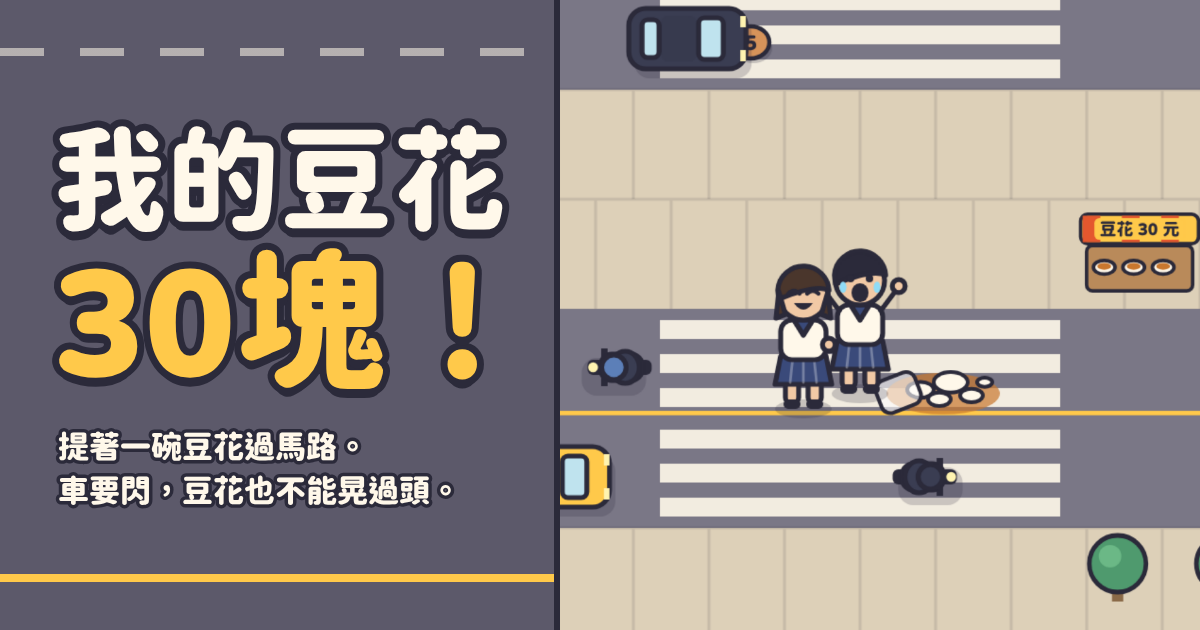
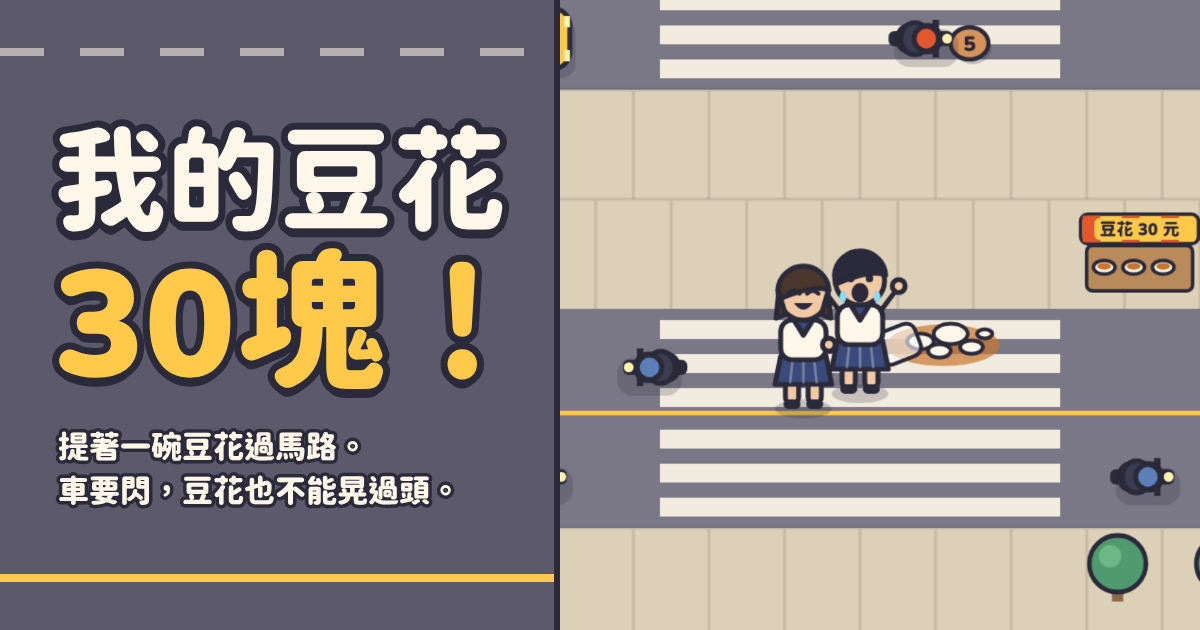
我的豆花30塊：加上「抓節奏」和路上的道具
玩起來還是缺一點樂趣：袋子的晃動只會處罰人，路上也沒有驚喜。

- 抓節奏：袋子往回盪的時候踏出去，這一步會把它帶穩。時機到了量表和袋子會變綠、
  輕輕響一聲；踩準跳「穩！」有零錢，連續踩準更多。照節奏走可以一直走不晃出來
- 道具：車道上偶爾出現綠燈（所有車停 3 秒）、骨頭（野狗 6 秒不追）、
  蓋子（擋掉下一次晃過頭）

Claude-Session: https://claude.ai/code/session_01KxDmhWxjQ4a2uP9nZWftUY

diff --git a/douhua/index.html b/douhua/index.html
@@ -87,6 +87,10 @@ body{background:var(--road);color:var(--ink);font-family:var(--body);font-weight
 .timer{height:14px;border:2.5px solid var(--ink);border-radius:999px;background:var(--paper);overflow:hidden}
 .timer i{display:block;height:100%;width:100%;background:var(--calm);transform-origin:left center}
 .timer.low i{background:var(--alert)}
+/* 現在踏出去會把袋子帶穩：量表變綠 */
+.timer.good{box-shadow:0 0 0 3px var(--ok)}
+.timer.good i{background:var(--ok)}
+.wallet .spare.lid{background:#7fc4e8}
 .icon-btn{pointer-events:auto;width:40px;height:40px;display:grid;place-items:center;border:2.5px solid var(--ink);border-radius:50%;background:var(--paper);color:var(--ink);cursor:pointer;padding:0}
 .icon-btn svg{width:20px;height:20px}
 .icon-btn:focus-visible,.btn:focus-visible{outline:3px solid var(--calm);outline-offset:3px}
@@ -131,7 +135,7 @@ body{background:var(--road);color:var(--ink);font-family:var(--body);font-weight
     <div class="top">
       <div class="left">
         <div class="count"><small>第 <span id="dayN">1</span> 天　過了</small><b id="num">0</b><small>/ <span id="goal">5</span> 條</small></div>
-        <div class="wallet" id="wallet"><span class="coin" aria-hidden="true">$</span><b id="money">$0</b><span class="spare" id="spare" hidden>朋友手上還有一碗</span></div>
+        <div class="wallet" id="wallet"><span class="coin" aria-hidden="true">$</span><b id="money">$0</b><span class="spare" id="spare" hidden>朋友手上還有一碗</span><span class="spare lid" id="lidOn" hidden>有蓋</span></div>
         <div class="pat"><span>豆花晃動</span><div class="timer" id="timer"><i id="timerFill"></i></div></div>
         <div class="pat" id="dogm" hidden><span>野狗多近</span><div class="timer dog" id="dogT"><i id="dogFill"></i></div></div>
       </div>
@@ -151,6 +155,7 @@ body{background:var(--road);color:var(--ink);font-family:var(--body);font-weight
       <li><b>左右滑</b> 橫著走一格</li>
       <li><b>往下滑</b> 退一步</li>
       <li><b>走太急</b> 豆花會晃</li>
+      <li><b>變綠再踩</b> 越走越穩</li>
       <li><b>走到家</b> 過一天</li>
       <li><b>掉光</b> 從第 1 天重來</li>
       <li><b>每撿滿 30 塊</b> 朋友多買一碗</li>
@@ -293,7 +298,7 @@ Voice.load();
 if(Voice.ok){Voice.pick();try{speechSynthesis.addEventListener('voiceschanged',()=>Voice.pick());}catch(e){}}
 
 /* ───────── 狀態 ───────── */
-let mode='title',time=0,rows=[],gen=0,pr=1,from=1,flow=0,lastStepAt=-9,dropsToday=0,stars=0,px=CX,tx=CX,inPud=false,minR=1,camR=1,stepT=0,buf=null,th=0,om=0,foot=1,streets=0,money=0,earned=0,spare=0,rescue=false,idle=0,lim=LIMIT,goalN=5,mods=[],windT=6,windWarn=false,windFx=0,winT=0,winBonus=0,eliseT=1,lastWon=false,cardDay=1,voiced=false,best=parseInt(store.get('dh.best')||'0',10)||0;
+let mode='title',time=0,rows=[],gen=0,pr=1,from=1,flow=0,lastStepAt=-9,dropsToday=0,stars=0,steady=0,cueOn=false,greenT=0,shield=0,px=CX,tx=CX,inPud=false,minR=1,camR=1,stepT=0,buf=null,th=0,om=0,foot=1,streets=0,money=0,earned=0,spare=0,rescue=false,idle=0,lim=LIMIT,goalN=5,mods=[],windT=6,windWarn=false,windFx=0,winT=0,winBonus=0,eliseT=1,lastWon=false,cardDay=1,voiced=false,best=parseInt(store.get('dh.best')||'0',10)||0;
 let cause='',lastShock='step',dropT=0,dropX=CX,dropY=0,shake=0,flash=0,fx=CX-30,fr=1;
 const pops=[],splash=[],nm={r:0,x:0,t:0},dog={on:false,r:-5,x:CX,bark:0,eat:0};
 const has=m=>mods.includes(m),DOG_GAP=2.7,dogSpeed=()=>Math.min(1.05,.56+.035*Math.min(day,12)+.008*streets)*(1-.12*U('jerky'));
@@ -310,6 +315,7 @@ function genStreet(){
       const pud=has('rain')?Math.random()<.6:(k>=2&&!lastPud&&Math.random()<.17);lastPud=pud;
       const row={t:'lane',street:k,dir,sp,edge,t0:lerp(1.3,.86,D)*busy,t1:lerp(2.8,1.75,D)*busy,pud,pudC:(Math.random()*3|0)-1,coins:[],veh:[],gap:0,first:j===0,flip:G.length===1&&j===1};
       if(Math.random()<.62){let c=pick([-1,-1,0,1,1]);if(pud&&c===row.pudC)c=c?-c:1;row.coins.push({c,v:lv>=3&&Math.random()<.08?50:Math.random()<.3?10:5,got:false});}
+      if(k>=2&&Math.random()<.12){const used=row.coins.map(q=>q.c).concat(pud?[row.pudC]:[]),free=[-1,0,1].filter(c=>!used.includes(c));if(free.length)row.items=[{c:pick(free),t:pick(has('dog')?['green','bone','lid']:['green','lid']),got:false}];}
       for(let x=-170;x<540;){const v=mkVeh(row);x+=v.len/2;v.x=dir>0?x:360-x;row.veh.push(v);x+=v.len/2+row.sp*rnd(row.t0,row.t1);}
       row.veh=row.veh.filter(v=>Math.abs(v.x-CX)>130||k>1);row.gap=row.sp*rnd(.2,row.t1);rows.push(row);}});
   rows.push({t:'walk',street:k,goal:true,home:k===goalN,veh:[]});rows.push({t:'walk',street:k,veh:[]});
@@ -358,8 +364,9 @@ function drawVeh(c,v,dir){
   c.restore();
 }
 // 一袋豆花：塑膠袋裡一個白色紙碗。a 是擺動的角度
-function drawBag(c,x,y,a,hot){
+function drawBag(c,x,y,a,hot,good){
   c.save();c.translate(x,y);c.rotate(a);c.lineJoin='round';c.lineCap='round';c.strokeStyle=INK;c.lineWidth=2;
+  if(good){c.fillStyle='rgba(90,210,125,.5)';c.beginPath();c.arc(0,26,21,0,TAU);c.fill();}
   c.beginPath();c.moveTo(0,0);c.lineTo(-7,14);c.moveTo(0,0);c.lineTo(7,14);c.stroke();
   c.fillStyle=hot?'rgba(255,210,196,.8)':'rgba(255,255,255,.62)';c.beginPath();c.moveTo(-9,13);c.quadraticCurveTo(-15,32,-9,38);c.lineTo(9,38);c.quadraticCurveTo(15,32,9,13);c.closePath();c.fill();c.stroke();
   c.fillStyle=PAPER;rrect(c,-8.5,21,17,14,3);c.fill();c.stroke();c.fillStyle=SYRUP;c.fillRect(-7,22,14,3.5);
@@ -394,7 +401,7 @@ function drawGirl(c,x,y,o){
     if(o.laugh){c.lineWidth=2.2;c.beginPath();c.moveTo(-8,-59);c.quadraticCurveTo(-5,-62,-2,-59);c.moveTo(2,-59);c.quadraticCurveTo(5,-62,8,-59);c.stroke();c.beginPath();c.moveTo(-5,-54);c.quadraticCurveTo(0,-47,5,-54);c.closePath();c.fill();}
     else{c.beginPath();c.arc(-5,-59,2,0,TAU);c.arc(5,-59,2,0,TAU);c.fill();c.beginPath();c.ellipse(0,-51.5,4.5,5.5+Math.sin(time*30)*.8,0,0,TAU);c.fill();   // 張大嘴大叫
       c.fillStyle='#8fdcf7';for(const sd of[-1,1]){c.beginPath();c.ellipse(sd*9,-55+((time*40)%8),1.8,3,0,0,TAU);c.fill();}}}
-  if(o.bag!==null)drawBag(c,19.5,-29,o.bag,Math.abs(o.bag)>lim*.72);
+  if(o.bag!==null)drawBag(c,19.5,-29,o.bag,Math.abs(o.bag)>lim*.72,o.good);
   c.restore();
 }
 function drawRowBg(c,r,row,y,L,R){
@@ -415,7 +422,20 @@ function drawRowBg(c,r,row,y,L,R){
     else if(!row.first){c.fillStyle='rgba(255,248,234,.8)';for(let x=Math.floor(L/44)*44;x<R;x+=44)c.fillRect(x,top+RH-1.5,24,3);}
     c.fillStyle='rgba(255,248,234,.9)';for(const q of[-18,0,18])c.fillRect(CX-106,y+q-5,212,10);   // 斑馬線（能橫著走的範圍）
     if(row.pud){const px=PX(row.pudC);c.fillStyle='rgba(143,220,247,.8)';c.beginPath();c.ellipse(px,y+4,24,11,0,0,TAU);c.fill();c.strokeStyle='rgba(255,255,255,.8)';c.lineWidth=1.6;c.beginPath();c.ellipse(px-4,y+2,12,4,0,.3,2.6);c.stroke();}
-    for(const q of row.coins)if(!q.got)drawCoin(c,PX(q.c),y+3+Math.sin(time*4+r)*1.5,q.v);}
+    for(const q of row.coins)if(!q.got)drawCoin(c,PX(q.c),y+3+Math.sin(time*4+r)*1.5,q.v);
+    for(const q of row.items||[])if(!q.got)drawItem(c,PX(q.c),y+2+Math.sin(time*4+r)*2,q.t);}
+}
+// 路上的道具：綠燈（所有車停 3 秒）、骨頭（野狗去啃、暫時不追）、蓋子（擋掉下一次晃過頭）
+const ITEM={green:{ch:'綠',col:'#4fb36c',n:'綠燈！車都停了'},bone:{ch:'骨',col:'#fff8ea',n:'狗跑去啃骨頭了'},lid:{ch:'蓋',col:'#7fc4e8',n:'蓋上蓋子：擋一次'}};
+function drawItem(c,x,y,t){
+  const I=ITEM[t];c.lineJoin='round';c.strokeStyle=INK;c.lineWidth=2.4;
+  c.fillStyle='rgba(43,42,58,.22)';rrect(c,x-11,y-8,24,24,7);c.fill();
+  c.fillStyle=I.col;rrect(c,x-12,y-12,24,24,7);c.fill();c.stroke();
+  c.fillStyle=INK;c.font='900 14px '+FONT;c.textAlign='center';c.textBaseline='middle';c.fillText(I.ch,x,y+.5);c.textAlign='left';c.textBaseline='alphabetic';
+}
+function pickup(t,x,y){
+  pop(x,y,ITEM[t].n,SUN,true,{life:1.2,dur:1.2});Snd.blip(660,1320,.16,'triangle',.1);Snd.blip(990,1760,.14,'triangle',.07,.1);
+  if(t==='green')greenT=3.2;else if(t==='bone'){dog.eat=6;dog.r=Math.min(dog.r,pr-DOG_GAP);}else shield=1;
 }
 // 路上的零錢：5 塊銅色、10 塊銀色、50 塊金色
 function drawCoin(c,x,y,v){
@@ -494,7 +514,7 @@ function render(){
         g.fillStyle='rgba(201,119,46,.7)';g.beginPath();g.ellipse(dropX,dropY+4,30*e,11*e,0,0,TAU);g.fill();g.fillStyle=PAPER;g.strokeStyle=INK;g.lineWidth=2;
         for(const[qx,qy,qr]of[[-12,2,7],[4,-2,9],[15,5,6],[-2,7,6],[22,-2,4]]){g.beginPath();g.ellipse(dropX+qx*e,dropY+qy,qr*e,qr*.6*e,0,0,TAU);g.fill();g.stroke();}
         g.save();g.translate(dropX-20,dropY+2);g.rotate(1.2);g.fillStyle='rgba(255,255,255,.6)';rrect(g,-9,-7,18,22,5);g.fill();g.stroke();g.restore();}
-      drawGirl(g,px,rowY(pRow)+14,{back:!drop,hair:'pony',hairCol:'#2b2a3a',pack:'#5c7fb8',step:walk,foot,bag:drop?null:th});}
+      drawGirl(g,px,rowY(pRow)+14,{back:!drop,hair:'pony',hairCol:'#2b2a3a',pack:'#5c7fb8',step:walk,foot,bag:drop?null:th,good:cueOn&&!drop});}
     if(dog.on&&Math.round(dog.r)===r)drawDog(g,dog.x,rowY(dog.r)+16);
     // 朋友：貼在左後方一起走，手上提著備用的那幾碗
     if(Math.round(fr)===r)drawGirl(g,fx,rowY(fr)+22,{back:!drop,hair:'bob',hairCol:'#4a362c',pack:'#e4572e',step:walk,foot:-foot,bag:spare?Math.sin(time*2.2)*.07:null,laugh:drop&&dropT>.5});
@@ -506,13 +526,15 @@ function render(){
   g.globalAlpha=1;g.textBaseline='alphabetic';g.textAlign='left';
   g.setTransform(1,0,0,1,0,0);
   if(flash>0){g.fillStyle=PAPER;g.globalAlpha=flash*.6;g.fillRect(0,0,W,H);g.globalAlpha=1;}
+  // 綠燈中：整個畫面泛綠
+  if(greenT>0){g.fillStyle='rgba(90,210,125,'+(.1+.05*Math.sin(time*9)+(greenT<.8?.08*Math.sin(time*30):0)).toFixed(3)+')';g.fillRect(0,0,W,H);}
   // 野狗快追上了：畫面邊緣一陣一陣發紅
   if(dog.on&&mode==='play'){const gap=pr-dog.r;if(gap<1.5){const a=(1-gap/1.5)*(.3+.2*Math.sin(time*12)),gr=g.createRadialGradient(W/2,H/2,Math.min(W,H)*.35,W/2,H/2,Math.max(W,H)*.72);gr.addColorStop(0,'rgba(228,87,46,0)');gr.addColorStop(1,'rgba(228,87,46,'+a.toFixed(3)+')');g.fillStyle=gr;g.fillRect(0,0,W,H);}}
 }
 
 /* ───────── HUD 與流程 ───────── */
 const el={hud:$('hud'),num:$('num'),timer:$('timer'),fill:$('timerFill'),hint:$('hint'),title:$('title'),over:$('over'),best:$('best'),mute:$('mute')};
-let lastHint='',lastNum=-1,lastFill=-1,lastMoney=-1,lastSpare=-1,lastDog=-1,paused=false;
+let lastHint='',lastNum=-1,lastFill=-1,lastMoney=-1,lastSpare=-1,lastDog=-1,lastCue=null,lastShield=-1,paused=false;
 function setHint(t){if(t!==lastHint){lastHint=t;el.hint.textContent=t;}}
 function muteIcon(){el.mute.innerHTML=Snd.on
   ?'<svg viewBox="0 0 24 24" fill="none" stroke="currentColor" stroke-width="2.4" stroke-linecap="round" stroke-linejoin="round"><path d="M4 9.5v5h3.5L12 18.5v-13L7.5 9.5z" fill="currentColor"/><path d="M15.5 9a4.2 4.2 0 0 1 0 6M18 6.5a8 8 0 0 1 0 11"/></svg>'
@@ -521,8 +543,8 @@ function muteIcon(){el.mute.innerHTML=Snd.on
 // 標題畫面：今天第幾天、今天的狀況、存款
 function showBest(){$('dayTag').textContent=`第 ${day} 天　${dayLabel(day)}`;el.best.textContent=(day>1?`存款 $${bank}　`:'')+(best>0?`最遠通過 ${best} 天　★ ${starSum()}`:'');$('restart').hidden=day<=1;}
 function pop(x,y,text,col,big,o){pops.push(Object.assign({x,y,text,col,life:big?1:.7,dur:big?1:.7,big},o));}
-function reset(){mods=modsFor(day);goalN=needOf(day);lim=LIMIT*(1+.09*U('lid'));windT=rnd(4,7);windWarn=false;windFx=0;winT=0;eliseT=1;rows=[];gen=0;rows.push({t:'walk',veh:[]},{t:'walk',veh:[]});need(2);pr=from=1;flow=0;lastStepAt=-9;dropsToday=0;px=tx=CX;inPud=false;minR=1;camR=1;stepT=0;buf=null;th=om=0;streets=0;money=earned=0;spare=1+U('pal');rescue=false;idle=0;nm.t=0;fx=CX-30;fr=1;cause='';lastShock='step';pops.length=splash.length=0;shake=flash=0;dog.on=has('dog');dog.r=pr-DOG_GAP;dog.x=CX;dog.bark=0;dog.eat=1.5;}
-function start(){Snd.init();Voice.unlock();Snd.blip(520,780,.14,'triangle',.1);paused=false;$('pause').hidden=true;reset();mode='play';lastNum=lastFill=lastMoney=lastSpare=lastDog=-1;el.title.hidden=true;el.over.hidden=true;el.hud.hidden=false;
+function reset(){mods=modsFor(day);goalN=needOf(day);lim=LIMIT*(1+.09*U('lid'));windT=rnd(4,7);windWarn=false;windFx=0;winT=0;eliseT=1;rows=[];gen=0;rows.push({t:'walk',veh:[]},{t:'walk',veh:[]});need(2);pr=from=1;flow=0;lastStepAt=-9;dropsToday=0;steady=0;cueOn=false;greenT=0;shield=0;px=tx=CX;inPud=false;minR=1;camR=1;stepT=0;buf=null;th=om=0;streets=0;money=earned=0;spare=1+U('pal');rescue=false;idle=0;nm.t=0;fx=CX-30;fr=1;cause='';lastShock='step';pops.length=splash.length=0;shake=flash=0;dog.on=has('dog');dog.r=pr-DOG_GAP;dog.x=CX;dog.bark=0;dog.eat=1.5;}
+function start(){Snd.init();Voice.unlock();Snd.blip(520,780,.14,'triangle',.1);paused=false;$('pause').hidden=true;reset();mode='play';lastNum=lastFill=lastMoney=lastSpare=lastDog=lastShield=-1;lastCue=null;el.title.hidden=true;el.over.hidden=true;el.hud.hidden=false;
   $('dayN').textContent=day;$('goal').textContent=goalN;$('dogm').hidden=!dog.on;
   pop(CX,228,`第 ${day} 天`,SUN,true,{huge:true,life:1.7,dur:1.7});pop(CX,272,mods.length?'今天：'+mods.map(m=>MODN[m]).join('、'):'放學，提豆花回家',PAPER,true,{life:1.7,dur:1.7});}
 function shock(j,why){om+=(Math.random()<.5?-1:1)*j;lastShock=why;}
@@ -536,7 +558,11 @@ function move(dr){
   if(rows[pr].t==='lane'){nm.r=pr;nm.x=px;nm.t=NEAR_T;}
   // 連過：一步接一步（間隔不到 0.9 秒）連續走過兩線以上，每多一線多拿零錢。停下來等或往後退就歸零
   if(dr>0){if(time-lastStepAt>=.9)flow=0;else if(rows[pr].t==='lane'&&++flow>=2){const n=Math.min(flow,5);gain(n,px,rowY(pr)-58,`連過 ${flow} 線 +${n}`);}lastStepAt=time;}else flow=0;
-  from=pr;pr=nr;stepT=STEP_T;foot=-foot;om+=dr*STEP_J;lastShock='step';idle=0;inPud=false;need(pr);Snd.blip(260,330,.05,'sine',.07);
+  from=pr;pr=nr;stepT=STEP_T;foot=-foot;lastShock='step';idle=0;inPud=false;need(pr);
+  // 抓節奏：袋子正往回盪的時候踏出去，這一步會把它帶穩（那時量表和袋子會變綠）。踩準有零錢，連續踩準更多；踩在最糟的時機就斷掉
+  {const a0=Math.hypot(th,om/W0);om+=dr*STEP_J;const a1=Math.hypot(th,om/W0);
+    if(dr>0&&a0>.25&&a1<a0-.12){steady++;th*=.6;om*=.6;const n=steady>=4?2:1;money+=n;earned+=n;pop(px+26,rowY(from)-76,steady>1?`穩！×${steady}`:'穩！','#8fe0a8');const f=520+Math.min(steady,8)*70;Snd.blip(f,f*1.5,.08,'triangle',.09);}
+    else{if(dr>0&&a0>.25&&a1>a0+.05)steady=0;Snd.blip(260,330,.05,'sine',.07);}}
 }
 const step=()=>move(1);
 // 橫著走一格：斑馬線上有左、中、右三個位置
@@ -595,7 +621,7 @@ function tick(dt){
   if(mode==='over')return;
   // 車流：每條車道各開各的，前一台開遠了就再來一台
   const lo=Math.max(0,Math.floor(camR)-4),hi=Math.min(rows.length-1,Math.floor(camR)+13);
-  for(let r=lo;r<=hi;r++){const row=rows[r];if(row.t!=='lane'||(mode==='drop'&&(r===pr||r===from)))continue;const d=row.dir*row.sp*dt;
+  for(let r=lo;r<=hi;r++){const row=rows[r];if(row.t!=='lane'||greenT>0||(mode==='drop'&&(r===pr||r===from)))continue;const d=row.dir*row.sp*dt;
     for(let i=row.veh.length-1;i>=0;i--){const v=row.veh[i];v.x+=d;if((v.x-CX)*row.dir>400)row.veh.splice(i,1);}   // 開出畫面夠遠才拿掉（只看開走的那一邊，剛從另一邊進來的不算）
     if((row.gap-=row.sp*dt)<=0){const v=mkVeh(row);v.x=row.dir>0?-200-v.len/2:560+v.len/2;row.veh.push(v);row.gap=v.len+row.sp*rnd(row.t0,row.t1);}}
   camR+=((stepT>0?from+(1-stepT/STEP_T):pr)-camR)*Math.min(1,dt*10);
@@ -610,6 +636,7 @@ function tick(dt){
   if(has('wind')){windT-=dt;if(windT<.9&&!windWarn){windWarn=true;pop(CX,205,'風來了！',PAPER,true);Snd.wind();}
     if(windT<=0){shock(2.7*(1-.25*U('bag')),'wind');windT=rnd(4.5,8);windWarn=false;windFx=.7;}}
   if(windFx>0)windFx-=dt;
+  if(greenT>0&&(greenT-=dt)<=0){greenT=0;pop(CX,205,'綠燈結束',PAPER);}
   // 垃圾車：畫面上有垃圾車的時候放音樂
   if(has('trash')&&(eliseT-=dt)<=0){eliseT=3.4;let near=false;for(let r=Math.max(0,pr-3);r<=pr+7&&r<rows.length;r++)for(const v of rows[r].veh)if(v.k==='trash'&&Math.abs(v.x-CX)<230)near=true;if(near)Snd.elise();}
   // 野狗：永遠貼在後面兩三步。站著不動牠就靠過來，往前走才拉得開；越後面的天數牠越快。剛吃到掉在地上的豆花時會停一下
@@ -621,11 +648,15 @@ function tick(dt){
   {const d=clamp(tx-px,-LAT_V*dt,LAT_V*dt);if(d){px+=d;om+=d*LAT_J;}}
   // 豆花的擺動
   om+=(-W0*W0*th-2*ZETA*W0*om)*dt;th+=om*dt;
+  if(Math.abs(th)>lim&&shield>0){shield=0;th=om=0;pop(px,rowY(pr)-84,'蓋子擋住了！',SUN,true);Snd.blip(600,900,.12,'triangle',.1);}
   if(Math.abs(th)>lim)return drop(lastShock==='wind'?'被颱風吹到，整袋甩出去':lastShock==='honk'?'被喇叭嚇到，手一抖就掉了':lastShock==='puddle'?'踩到水窪滑了一下':'走太急，晃到掉出來');
+  // 現在踏出去會不會把袋子帶穩？會的話量表和袋子變綠，並輕輕響一聲
+  {const a0=Math.hypot(th,om/W0),c=stepT<=0&&a0>.25&&Math.hypot(th,(om+STEP_J)/W0)<a0-.12;if(c&&!cueOn)Snd.blip(1250,1250,.03,'sine',.03);cueOn=c;}
   // 被撞、被叭：只看她現在站的那一列
   const cur=stepT>STEP_T*.55?from:pr,row=rows[cur],x=px;
   // 站定的時候：碰到零錢就撿，踩進水窪就滑一下
   if(stepT<=0){for(const c of row.coins||[])if(!c.got&&Math.abs(x-PX(c.c))<22){c.got=true;gain(c.v,PX(c.c),rowY(cur)-64);}
+    for(const q of row.items||[])if(!q.got&&Math.abs(x-PX(q.c))<22){q.got=true;pickup(q.t,PX(q.c),rowY(cur)-70);}
     const on=!!row.pud&&Math.abs(x-PX(row.pudC))<24;
     if(on&&!inPud){shock(PUD_J*(1-.35*U('shoe')),'puddle');pop(x,rowY(cur)-70,'滑！',PAPER);Snd.splat();for(let i=0;i<8;i++)splash.push({x:x+rnd(-16,16),y:rowY(cur)+6,vx:rnd(-90,90),vy:rnd(-140,-50),r:rnd(2,4),col:'#8fdcf7',life:rnd(.3,.55)});}
     inPud=on;}
@@ -635,7 +666,7 @@ function tick(dt){
   if(row.t!=='lane'&&(idle+=dt)>4.5){idle=-4;friendSay(pick(['快啦','走啊','豆花要涼了啦','你在等綠燈喔','我腳好痠']));}
   if(row.t==='lane')for(const v of row.veh){const dx=(x-v.x)*row.dir,half=v.len/2;   // dx>0：車還沒到她這裡
     if(Math.abs(v.x-x)<half+10)return drop(`被${KIND[v.k].n}撞到`);
-    if(!v.honk&&dx>half&&dx<half+96){v.honk=true;shock(HONK_J*(1-.25*U('bag')),'honk');Snd.honk();pop(v.x+row.dir*half,rowY(cur)-30,'叭！',ALERT);}}
+    if(!v.honk&&greenT<=0&&dx>half&&dx<half+96){v.honk=true;shock(HONK_J*(1-.25*U('bag')),'honk');Snd.honk();pop(v.x+row.dir*half,rowY(cur)-30,'叭！',ALERT);}}
 }
 function hud(){
   if(mode!=='play'&&mode!=='drop')return;
@@ -643,8 +674,10 @@ function hud(){
   if(money!==lastMoney){lastMoney=money;$('money').textContent='$'+money;$('wallet').classList.toggle('full',money>=PRICE);}
   if(spare!==lastSpare){lastSpare=spare;$('spare').hidden=!spare;$('spare').textContent='朋友手上 ×'+spare;}
   const a=clamp(Math.abs(th)/lim,0,1),f=Math.round(a*100);if(f!==lastFill){lastFill=f;el.fill.style.transform=`scaleX(${a.toFixed(2)})`;el.timer.classList.toggle('low',a>.72);}
+  if(cueOn!==lastCue){lastCue=cueOn;el.timer.classList.toggle('good',cueOn);}
+  if(shield!==lastShield){lastShield=shield;$('lidOn').hidden=!shield;}
   if(dog.on){const gp=clamp((pr-dog.r)/DOG_GAP,0,1),f2=Math.round((1-gp)*50);if(f2!==lastDog){lastDog=f2;$('dogFill').style.transform=`scaleX(${(1-gp).toFixed(2)})`;$('dogT').classList.toggle('low',gp<.5);}}
-  setHint(mode!=='play'?'':day===1?(streets===0&&pr<=1?'點一下往前走一步。往左、往右滑，橫著走一格':streets===0?'連走太急豆花會越晃越大，站在車道上會被叭':streets===1?'往下滑可以退一步。一步接一步連過兩線，有額外零錢':streets===2?'你的掉了，朋友手上的會給你。走到家就過關':''):streets===0&&mods.length?MODHINT[mods[mods.length-1]]:'');
+  setHint(mode!=='play'?'':day===1?(streets===0&&pr<=1?'點一下往前走一步。往左、往右滑，橫著走一格':streets===0?'連走太急豆花會越晃越大，站在車道上會被叭':streets===1?'袋子變綠的時候再踏下一步，會越走越穩，還有零錢':streets===2?'往下滑可以退一步。一步接一步連過兩線，有額外零錢':streets===3?'你的掉了，朋友手上的會給你。走到家就過關':''):streets===0&&mods.length?MODHINT[mods[mods.length-1]]:'');
 }
 const H=1/120;let acc=0,last=0,hold=false;
 function setPaused(p){if(p&&(paused||mode!=='play'))return;if(!p&&!paused)return;paused=p;$('pause').hidden=!p;last=0;acc=0;if(Snd.ctx){try{p?Snd.ctx.suspend():Snd.ctx.resume();}catch(e){}}if(p)$('resume').focus({preventScroll:true});}
@@ -703,7 +736,7 @@ if(window.ResizeObserver)new ResizeObserver(resize).observe(gameEl);
 reset();muteIcon();showBest();resize();requestAnimationFrame(frame);
 window.__dh={KIND,get LIMIT(){return lim},get day(){return day},set day(v){day=v;},get goalN(){return goalN},get bank(){return bank},set bank(v){bank=v;},get ups(){return ups},get mods(){return mods},get dogGap(){return pr-dog.r},get dogOn(){return dog.on},set dogOn(v){dog.on=v;},dayLabel,needOf,W0,ZETA,STEP_J,STEP_T,CX,get rows(){return rows},get mode(){return mode},get pr(){return pr},get th(){return th},get om(){return om},set th(v){th=v;},set om(v){om=v;},get stepT(){return stepT},get streets(){return streets},get cause(){return cause},get paused(){return paused},
   get voiceReady(){return !!Voice.buf},get voiceLoaded(){return !!(Voice.buf||Voice.raw)},get px(){return px},get tx(){return tx},get col(){return Math.round((px-CX)/COLW)},slide,get money(){return money},set money(v){money=v;},get spare(){return spare},set spare(v){spare=v;},get palX(){return fx},get palRow(){return fr},PX,
-  get stars(){return stars},get flow(){return flow},side,step,move,start,tick,set hold(v){hold=v;},set pr(v){pr=from=v;camR=v;need(v);}};
+  get stars(){return stars},get flow(){return flow},get steady(){return steady},get cue(){return cueOn},get greenT(){return greenT},get shield(){return shield},set shield(v){shield=v;},get dogEat(){return dog.eat},pickup,side,step,move,start,tick,set hold(v){hold=v;},set pr(v){pr=from=v;camR=v;need(v);}};
 })();
 </script>
 <!--/PAGE-->

diff --git a/douhua/README.md b/douhua/README.md
@@ -18,7 +18,12 @@
 - **豆花會晃**：每走一步（往前或往後），袋子就被甩一下；橫著移動也會帶到一點。連走太快會越晃越大，晃過頭就掉。停下來等一下它會自己慢慢靜下來。
 - **被叭**：站在車道上、車快開到的時候會被叭，嚇一跳手一抖，袋子又多晃一下。
 - **水窪**：在車道的左、中、右其中一處，踩到會滑，一樣多晃一下。可以繞過去。
+- **抓節奏**：袋子往回盪的那一下踏出去，這一步會把它帶穩。時機到的時候，左上的量表和袋子會變綠，並輕輕響一聲。踩準就跳「穩！」加 1 塊，連續踩準 4 次以上每次加 2 塊。照這個節奏走可以一直走不會晃出來。
 - **連過**：一步接一步（間隔不到 0.9 秒）連續走過兩線以上，每多一線多拿零錢（第 2 線 +2，最多每線 +5）。停下來等或往後退就歸零。
+- **道具**：車道上偶爾會出現，碰到就生效。
+  - **綠**（綠燈）：所有車停 3 秒左右，畫面會泛綠。
+  - **骨**（骨頭，有野狗的日子才有）：野狗跑去啃，6 秒不追。
+  - **蓋**（蓋子）：擋掉下一次晃過頭，用掉就沒了。不能擋車和狗。
 - **人行道和分隔島**不會有車，可以站著等車流、等袋子靜下來。但第 2 天起有野狗，不能等太久。
 
 ## 回家的路：一天一關
@@ -81,8 +86,8 @@
 
 袋子是一個會自己慢慢靜下來的單擺（`W0` 擺動快慢、`ZETA` 靜下來的速度）。往前走推一下、往後退反方向推一下，橫著走一格也會推一下（力道小一點）。所以：
 
-- 連續往前走三步以上幾乎一定晃過頭。
-- 袋子正往回盪的時候踏出去，會剛好抵銷，反而變穩。抓到這個節奏可以走得比別人快。
+- 一口氣連點三四步很容易晃過頭。
+- 袋子正往回盪的時候踏出去，那一推會剛好抵銷；遊戲另外再幫它穩一點（幅度打六折），並用變綠和聲音提示這個時機。大約每半秒一步的節奏。
 
 ## 平衡
 
@@ -114,4 +119,5 @@
 - 晃動：檔案開頭的 `W0`、`ZETA`、`STEP_J`、`HONK_J`、`PUD_J`、`LIMIT`。
 - 橫著移動：`XMIN`、`XMAX`、`LAT_V`、`LAT_J`。好險：`NEAR_T`、`NEAR_V`。
 - 每天的狀況：`modsFor`；要過幾條：`needOf`；升級：`UPG`；野狗速度：`dogSpeed`。
+- 道具：`ITEM` 和 `pickup`，出現機率在 `genStreet`。
 - 馬路（車道配置、車速、車距、零錢、水窪）：`genStreet`，難度由裡面的 `lv` 決定；車種：`KIND` 和 `mkVeh`。
